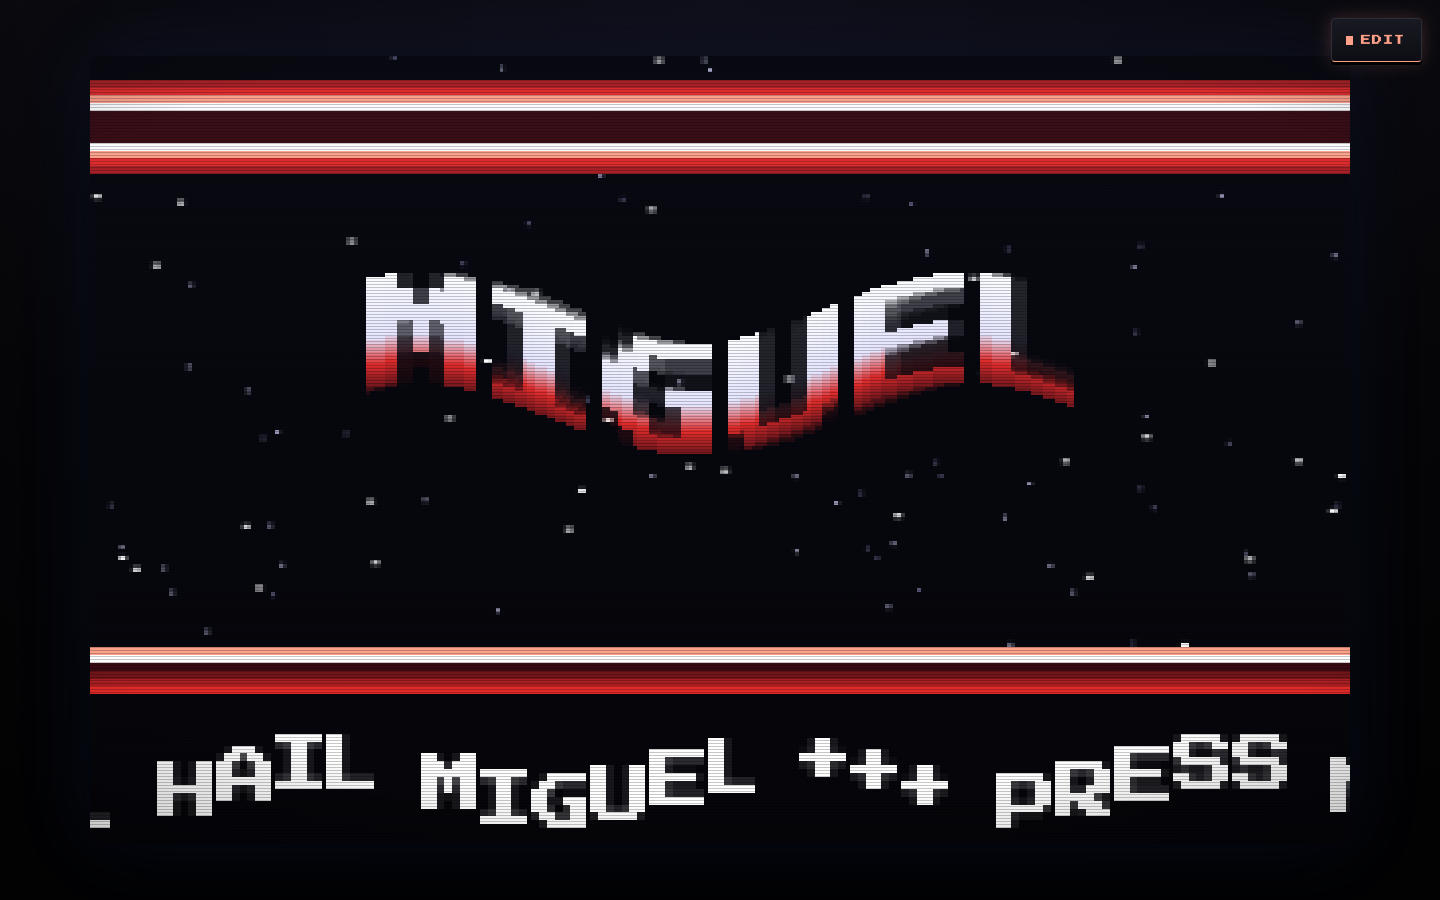
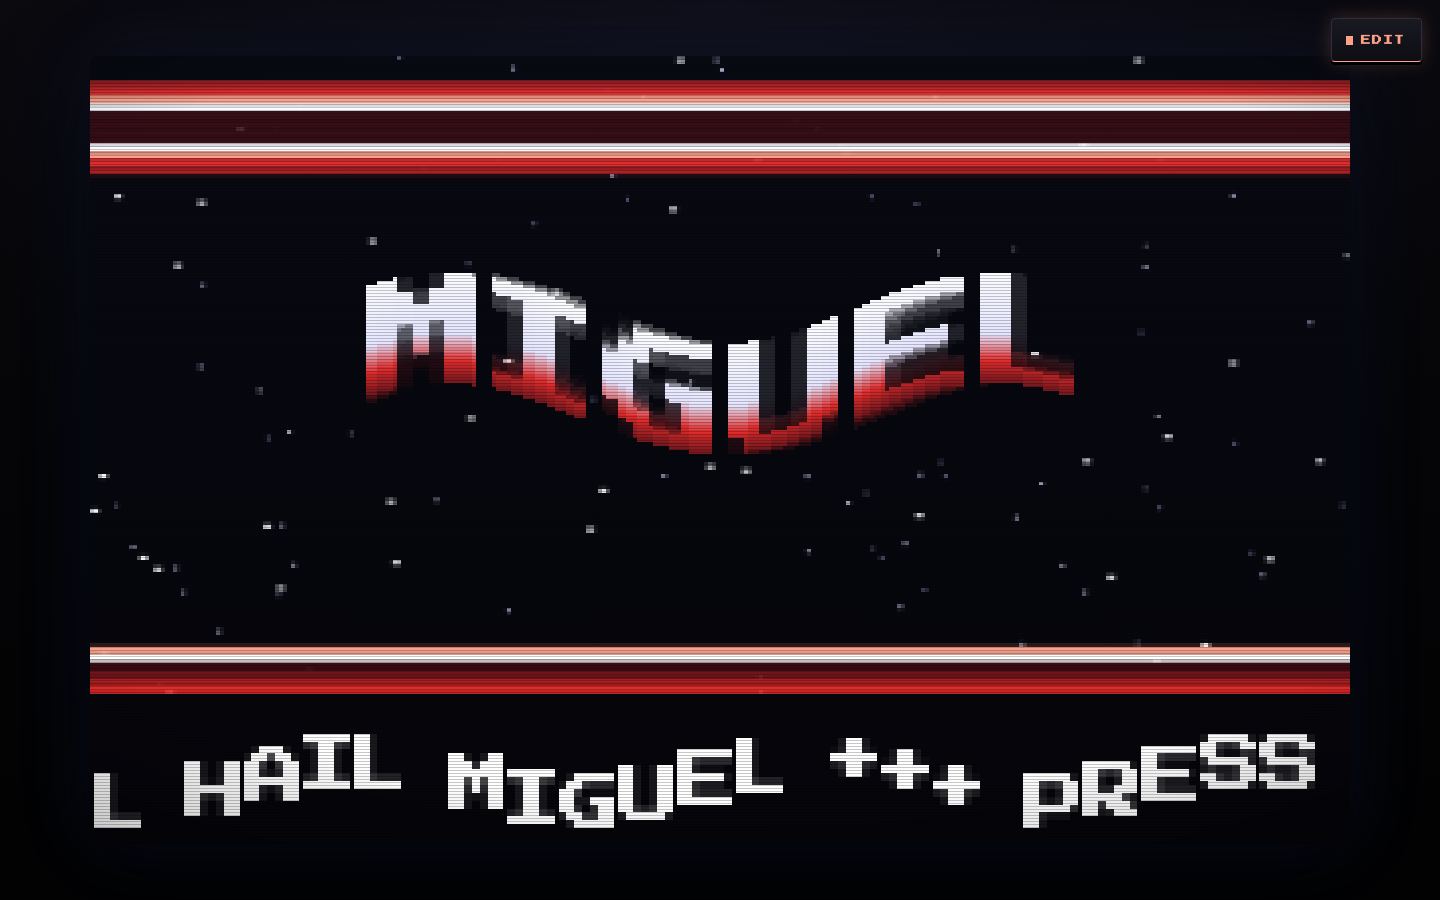
r2v13: the glass is the field — caret on the parked line, grab the crawl
Direct manipulation round: the reviewer's last 7 said the hand is on a
form under the picture. Now the picture takes the hand:

- the scrolltext field's caret blinks in the trough at its own index —
  a press on the parked line seats the caret on the glyph you touched
- the pinned crawl takes a drag: horizontal walks the sentence by hand
  (scrollT can run negative — the crawl is a ring, so % normalizes),
  vertical bends the wave amplitude while the grab is held
- the scrolltext field is a two-row textarea — a long sentence wraps and
  the head stays on screen on a phone instead of sliding out
- the busy MAKE key keeps its name — export progress rides as a meter
  strip inside the key; the status phrase stays in the prog line
- the word fields cascade in on open instead of landing as one slab
- the tune stops kissing 0 dBFS — tanh*0.82 leaves a real ceiling
- blur returns the field's scroll to the head smoothly, not a snap

Generated with [Devin](https://devin.ai)

diff --git a/src/lib/demo.ts b/src/lib/demo.ts
@@ -246,7 +246,9 @@ export class Demo {
     const c = this.ctx;
     const speed = 55 * this.scrollSpeed;
     const [amp0, sf, tf] = this.wave;
-    const amp = amp0 * ampScale;
+    // a vertical grab on the pinned crawl bends the wave while it's held;
+    // the trough clamp still owns the excursion, bend or no bend
+    const amp = amp0 * ampScale * (this.pinY != null ? this.pinBend : 1);
     const gh = 8 * scale;
     // the wave never dips a glyph under the glass AND never lifts one into
     // the copper — the trough is a reserved band, so the whole excursion
@@ -257,7 +259,9 @@ export class Demo {
     const line = text ?? this.scrolltext;
     const adv = this.font.px * scale * 1.0;
     const total = line.length * adv + W + 40;
-    const off = (t * speed) % total;
+    // normalize — a scrubbed pin can run scrollT negative, and % keeps the
+    // sign in JS; the crawl is a ring, so wrap instead of going blank
+    const off = ((t * speed) % total + total) % total;
     let x = W - off;
     for (let i = 0; i < line.length; i++) {
       const g = this.font.get(line[i]);
@@ -704,6 +708,73 @@ export class Demo {
   // section id pins that section; 'scroll' pins the classic scroller
   previewMode: '' | 'scroll' | 'scrollhold' | 'greetz' | SectionId = '';
 
+  // the field's caret index, echoed on the glass while the scroll field is
+  // parked — set by the input's selection events; -1 hides it
+  pinCaret = -1;
+
+  // the parked line's layout — one fitted line if it holds, else rows
+  // wrapped at the gaps. each row carries its char span back into the
+  // field value so a press or the caret can land on a glyph. shared by
+  // the renderer and the pointer — the glass can't lie about where a
+  // character sits
+  private parkedRows(): { rows: { t: string; s: number; e: number; y: number }[]; scale: number } {
+    const line = this.scrolltext.trim();
+    const maxW = W - 16;
+    let s = 2;
+    while (s > 1 && this.drawnW(line, s) > maxW) s -= 0.25;
+    if (this.drawnW(line, s) <= maxW) return { rows: [{ t: line, s: 0, e: line.length, y: H - 30 }], scale: s };
+    const spans: [number, string][] = [];
+    let pos = 0;
+    for (const wd of line.split(' ')) { spans.push([pos, wd]); pos += wd.length + 1; }
+    const rows: { t: string; s: number; e: number }[] = [];
+    let cur = '', cs = 0;
+    for (const [wp, wd] of spans) {
+      const cand = cur ? cur + ' ' + wd : wd;
+      if (this.drawnW(cand, 1) <= maxW) { cur = cand; continue; }
+      if (cur) rows.push({ t: cur, s: cs, e: wp });
+      cur = wd; cs = wp;
+      // a single word wider than the tube hard-wraps mid-word
+      while (cur.length > 1 && this.drawnW(cur, 1) > maxW) {
+        let k = cur.length - 1;
+        while (k > 1 && this.drawnW(cur.slice(0, k), 1) > maxW) k--;
+        rows.push({ t: cur.slice(0, k), s: cs, e: cs + k });
+        cur = cur.slice(k); cs += k;
+      }
+    }
+    if (cur) rows.push({ t: cur, s: cs, e: cs + cur.length });
+    const last = rows.length - 1;
+    return { rows: rows.map((r, i) => ({ ...r, y: 186 - (last - i) * 11 })), scale: 1 };
+  }
+
+  // a press on the parked line is a press on the field — answers the
+  // caret index under the point, so the app can seat it in the input
+  caretAt(px: number, py: number): number {
+    const { rows, scale } = this.parkedRows();
+    if (!rows.length) return 0;
+    let row = rows[0];
+    for (const r of rows) if (Math.abs(py - (r.y + 4 * scale)) < Math.abs(py - (row.y + 4 * scale))) row = r;
+    const x0 = (W - this.drawnW(row.t, scale)) / 2;
+    let acc = x0, i = 0;
+    while (i < row.t.length) {
+      const w = ((this.font.get(row.t[i])?.w ?? this.font.px * 0.5) + 1) * scale;
+      if (px < acc + w / 2) break;
+      acc += w; i++;
+    }
+    return row.s + i;
+  }
+
+  // a drag on the pinned crawl walks the sentence under the finger —
+  // positive px drags the text right, against its natural march; the
+  // vertical axis bends the wave's amplitude while the grab is held
+  pinBend = 1;
+  scrub(px: number) {
+    if (this.scrollSpeed <= 0) return;
+    this.pinT0 += px / (0.45 * 55 * this.scrollSpeed);
+  }
+  bend(dy: number) {
+    this.pinBend = Math.min(2.4, Math.max(0.15, this.pinBend - dy / 26));
+  }
+
   // returns true when a pin owns the frame — shared by the live loop and
   // the reduced-motion still so the pin works in both
   private renderPinned(t: number, greetz: string[], still = false): boolean {
@@ -715,45 +786,28 @@ export class Demo {
     // a focused scroll field parks the whole phrase fitted in the band —
     // the line answers the keys as you type; the crawl resumes on blur
     if (m === 'scrollhold' || (m === 'scroll' && still)) {
-      // the frozen pin parks the phrase in the band — a fragment frozen
-      // mid-crawl is useless to the person editing it. one line at a
-      // comfortable scale first; past that the sentence wraps at its gaps
-      // into rows stacked up from the trough — a credits block, not a
-      // hairline. every glyph the field holds stays on the glass
       this.renderClassic(2, true, false);
-      const line = this.scrolltext.trim();
-      const maxW = W - 16;
-      let s = 2;
-      while (s > 1 && this.drawnW(line, s) > maxW) s -= 0.25;
-      if (this.drawnW(line, s) <= maxW) this.tinyText(line, H - 30, 0, s);
-      else {
-        const rows: string[] = [];
-        let cur = '';
-        for (const wd of line.split(' ')) {
-          const cand = cur ? cur + ' ' + wd : wd;
-          if (this.drawnW(cand, 1) <= maxW) { cur = cand; continue; }
-          if (cur) rows.push(cur);
-          cur = wd;
-          // a single word wider than the tube hard-wraps mid-word
-          while (cur.length > 1 && this.drawnW(cur, 1) > maxW) {
-            let k = cur.length - 1;
-            while (k > 1 && this.drawnW(cur.slice(0, k), 1) > maxW) k--;
-            rows.push(cur.slice(0, k));
-            cur = cur.slice(k);
-          }
-        }
-        if (cur) rows.push(cur);
-        const last = rows.length - 1;
-        // the block sits inside the text band; a stack taller than the
-        // band grows its own plate upward over the copper rather than
-        // climbing through the bar
-        const firstTop = 186 - last * 11;
-        if (firstTop - 4 < 162) {
+      const { rows, scale } = this.parkedRows();
+      // a stack taller than the trough grows its own plate upward over the
+      // copper rather than letting a row climb through the bar
+      if (rows.length > 1 && rows[0].y - 4 < 162) {
+        const c = this.ctx;
+        c.fillStyle = '#05050a';
+        c.fillRect(0, rows[0].y - 4, W, H - (rows[0].y - 4));
+      }
+      for (const r of rows) this.tinyText(r.t, r.y, 0, scale);
+      // the glass IS the field while it's parked — the caret blinks at the
+      // index the input carries, so the line under your eyes and the line
+      // under your hands are the same object
+      if (this.pinCaret >= 0 && Math.floor(performance.now() / 480) % 2 === 0) {
+        const ci = Math.min(this.pinCaret, this.scrolltext.trim().length);
+        const row = rows.find((r) => ci <= r.e) ?? rows[rows.length - 1];
+        if (row) {
+          const rx = (W - this.drawnW(row.t, scale)) / 2 + this.drawnW(row.t.slice(0, Math.max(0, ci - row.s)), scale);
           const c = this.ctx;
-          c.fillStyle = '#05050a';
-          c.fillRect(0, firstTop - 4, W, H - (firstTop - 4));
+          c.fillStyle = this.ramp[6];
+          c.fillRect(Math.round(rx), row.y - 2, 2, 8 * scale + 4);
         }
-        rows.forEach((r, i) => this.tinyText(r, 186 - (last - i) * 11, 0, 1));
       }
       if (m === 'scrollhold') this.pinHold = true;
       return true;

diff --git a/src/Deck.tsx b/src/Deck.tsx
@@ -39,6 +39,7 @@ const HapticCtx = createContext<(() => void) | null>(null);
 function Chip(props: {
   on: boolean; label: string; title?: string; hot: string;
   onPress: () => void; disabled?: boolean; swatch?: string[]; toggle?: boolean;
+  frac?: number;
 }) {
   const haptic = useContext(HapticCtx);
   return (
@@ -59,6 +60,11 @@ function Chip(props: {
       {/* key on the word itself, minus live counters — a relabel is a swap
           the eye can catch, but a ticking percent must not restart it */}
       <span className="klabel" key={props.label.replace(/\s*\d+%$/, '')}>{props.label}</span>
+      {/* a busy key keeps its name — the work shows as a meter inside the
+          key, not a relabel */}
+      {props.frac != null && (
+        <span className="keymeter" aria-hidden><i style={{ transform: `scaleX(${props.frac})` }} /></span>
+      )}
     </button>
   );
 }
@@ -101,6 +107,7 @@ export default function Deck(props: {
   onReset: () => void;
   onClose: () => void;
   onTap?: () => void;
+  onCaret?: (i: number) => void;
   linkNote: string;
 }) {
   const { spec, resolved, hot, exp } = props;
@@ -183,8 +190,6 @@ export default function Deck(props: {
         ? sameSecs(spec.sections as SectionId[], v)
         : String(spec[k as keyof Spec]) === String(v));
   const bar = (n: number) => '▓'.repeat(Math.round(n * 8)) + '░'.repeat(8 - Math.round(n * 8));
-  const exportLabel = (kind: 'gif' | 'video', base: string) =>
-    exp.busy && exp.kind === kind ? `${base} ${Math.round(exp.frac * 100)}%` : base;
 
   return (
     <HapticCtx.Provider value={haptic}>
@@ -270,16 +275,19 @@ export default function Deck(props: {
               />
             </Field>
             <Field cap="SCROLLTEXT · EMPTY = AUTO" wide>
-              {/* blurred, the field shows the head of the sentence — the
-                  caret only owns the tail while you're actually typing;
-                  while focused, the glass echoes the whole fitted line */}
-              <input
-                className="dinput" aria-label="scrolltext" maxLength={200}
-                placeholder="EMPTY = GENERATED" value={spec.text}
-                onFocus={() => setScrollFocus(true)}
-                onBlur={(e) => { setScrollFocus(false); e.currentTarget.scrollLeft = 0; }}
-                onChange={(e) => props.onPatch({ text: cleanText(e.target.value) })}
-                onKeyDown={inputKeys}
+              {/* the field wraps to two rows so the head of the sentence
+                  stays in reach on a phone — a clipped single line hides
+                  the half you're not typing on. while focused the glass
+                  echoes it all anyway; the caret blinks in the trough at
+                  the same index the field carries */}
+              <textarea
+                className="dinput dtext" aria-label="scrolltext" maxLength={200}
+                rows={2} placeholder="EMPTY = GENERATED" value={spec.text}
+                onFocus={(e) => { setScrollFocus(true); props.onCaret?.(e.currentTarget.selectionStart); }}
+                onBlur={(e) => { setScrollFocus(false); props.onCaret?.(-1); e.currentTarget.scrollTo({ top: 0, behavior: 'smooth' }); }}
+                onChange={(e) => { props.onPatch({ text: cleanText(e.target.value) }); props.onCaret?.(e.currentTarget.selectionStart); }}
+                onSelect={(e) => props.onCaret?.(e.currentTarget.selectionStart)}
+                onKeyDown={(e) => { if (e.key === 'Enter') e.preventDefault(); inputKeys(e); }}
               />
             </Field>
             <Field cap="GREETZ · COMMA LIST" wide>
@@ -365,7 +373,7 @@ export default function Deck(props: {
         <div className="dkeys">
           {exp.busy ? (
             <>
-              <Chip on={false} hot={hot} disabled onPress={() => {}} label={exportLabel(exp.kind ?? 'gif', exp.kind === 'video' ? '▶ FILM' : '◉ GIF')} />
+              <Chip on={false} hot={hot} disabled onPress={() => {}} frac={exp.frac} label={exp.kind === 'video' ? '▶ FILM' : '◉ GIF'} />
               <span className="prog" aria-live="polite">{bar(exp.frac)} <span className="klabel" key={exp.label}>{exp.label}</span></span>
               <Chip on={false} hot={hot} label="CANCEL" onPress={props.onCancelExport} />
             </>
@@ -382,8 +390,8 @@ export default function Deck(props: {
             </>
           ) : (
             <>
-              <Chip on={false} hot={hot} label={exportLabel('gif', '◉ GIF')} title="600px square loop" onPress={() => props.onExport('gif')} />
-              <Chip on={false} hot={hot} label={exportLabel('video', '▶ FILM')} title="720p video with the tune" onPress={() => props.onExport('video')} />
+              <Chip on={false} hot={hot} label="◉ GIF" title="600px square loop" onPress={() => props.onExport('gif')} />
+              <Chip on={false} hot={hot} label="▶ FILM" title="720p video with the tune" onPress={() => props.onExport('video')} />
               <Chip on={props.linkState !== 'idle'} hot={hot}
                 label={props.linkState === 'copied' ? '⧉ COPIED' : props.linkState === 'manual' ? '⧉ COPY THIS' : '⧉ LINK'}
                 onPress={props.onShareLink} />

diff --git a/src/App.tsx b/src/App.tsx
@@ -532,7 +532,56 @@ export default function App() {
     <div className={'app' + (deckOpen ? ' editing' : '')}>
       <div className="room" />
       <div className="tube">
-        <canvas ref={canvasRef} className="demoscreen" aria-label={`cracktro greeting ${name ?? ''}${muted ? ', muted' : ''}`} />
+        <canvas ref={canvasRef} className="demoscreen" aria-label={`cracktro greeting ${name ?? ''}${muted ? ', muted' : ''}`}
+          onPointerDown={(e) => {
+            // with the deck open the glass is a surface you can grab —
+            // a press on the parked line seats the field's caret there;
+            // a drag on the pinned crawl walks the sentence by hand
+            const d = demoRef.current;
+            const m = previewRef.current;
+            if (!d || (m !== 'scrollhold' && m !== 'scroll')) return;
+            // keep the field's focus — a canvas press must not blur it
+            e.preventDefault();
+            const cv = e.currentTarget;
+            cv.setPointerCapture(e.pointerId);
+            const toCv = (x: number, y: number): [number, number] => {
+              const r = cv.getBoundingClientRect();
+              return [(x - r.left) * 320 / r.width, (y - r.top) * 200 / r.height];
+            };
+            if (m === 'scrollhold') {
+              const el = document.querySelector<HTMLTextAreaElement>('textarea[aria-label="scrolltext"]');
+              if (!el) return;
+              const seat = (x: number, y: number) => {
+                const [px, py] = toCv(x, y);
+                const i = Math.min(d.caretAt(px, py), el.value.length);
+                el.setSelectionRange(i, i);
+                d.pinCaret = i;
+              };
+              seat(e.clientX, e.clientY);
+              el.focus();
+              const move = (ev: PointerEvent) => seat(ev.clientX, ev.clientY);
+              const up = () => { cv.removeEventListener('pointermove', move); cv.removeEventListener('pointerup', up); };
+              cv.addEventListener('pointermove', move);
+              cv.addEventListener('pointerup', up);
+            } else {
+              // scrubs only where the crawl lives — a grab elsewhere is a
+              // plain touch on the tube
+              const [, py] = toCv(e.clientX, e.clientY);
+              if (py < 158) return;
+              let lastX = e.clientX, lastY = e.clientY;
+              const move = (ev: PointerEvent) => {
+                const k = 320 / cv.getBoundingClientRect().width;
+                d.scrub((ev.clientX - lastX) * k);
+                // vertical drag bends the wave while the grab is held —
+                // up is wilder, down is flatter, release snaps back to 1
+                d.bend((ev.clientY - lastY) * (200 / cv.getBoundingClientRect().height));
+                lastX = ev.clientX; lastY = ev.clientY;
+              };
+              const up = () => { d.pinBend = 1; cv.removeEventListener('pointermove', move); cv.removeEventListener('pointerup', up); };
+              cv.addEventListener('pointermove', move);
+              cv.addEventListener('pointerup', up);
+            }
+          }} />
         <div className="crt" aria-hidden>
           <div className="crt-lines" />
           <div className="crt-glow" />
@@ -602,6 +651,12 @@ export default function App() {
           }}
           onClose={closeDeck}
           onTap={() => thud(8)}
+          onCaret={(i) => {
+            const d = demoRef.current;
+            if (!d) return;
+            d.pinCaret = i;
+            if (REDUCED && phaseRef.current === 'running') d.renderReduced(greetzRef.current);
+          }}
           linkNote={linkNote}
         />
       )}

diff --git a/src/app.css b/src/app.css
@@ -21,6 +21,9 @@ body { background: #060608; overflow: hidden; font-family: 'PS2P', monospace; }
   box-shadow: 0 0 80px rgba(80, 120, 255, 0.10), 0 30px 90px rgba(0,0,0,0.8);
 }
 .demoscreen { width: 100%; height: 100%; display: block; image-rendering: pixelated; background: #05050a; }
+/* while the deck is open the glass takes grabs — a press seats the field
+   caret, a drag scrubs the crawl; the page must not steal the gesture */
+.app.editing .demoscreen { touch-action: none; }
 
 .sr-only {
   position: absolute; width: 1px; height: 1px; overflow: hidden;
@@ -183,6 +186,14 @@ body { background: #060608; overflow: hidden; font-family: 'PS2P', monospace; }
 }
 @keyframes panelin { from { transform: translateX(14px); opacity: 0; } }
 @keyframes thumbin { from { transform: translateX(-10px); opacity: 0; } }
+/* the word fields cascade in on open rather than landing as one slab */
+.dfields .field { animation: panelin 0.16s steps(4) backwards; }
+.dfields .field:nth-child(2) { animation-delay: 40ms; }
+.dfields .field:nth-child(3) { animation-delay: 80ms; }
+.dfields .field:nth-child(4) { animation-delay: 120ms; }
+/* the scrolltext field wraps — the head of a long sentence stays on
+   screen on a phone instead of sliding out of the single line */
+.dtext { resize: none; line-height: 1.4; overflow-y: auto; }
 
 .deckfoot {
   display: flex; align-items: center; gap: 12px;
@@ -234,8 +245,13 @@ body { background: #060608; overflow: hidden; font-family: 'PS2P', monospace; }
   cursor: pointer; touch-action: manipulation;
   -webkit-tap-highlight-color: transparent;
   display: inline-flex; align-items: center; gap: 7px;
+  position: relative; overflow: hidden;
   transition: transform 0.05s, box-shadow 0.05s, border-color 0.15s, color 0.15s, background 0.15s;
 }
+/* the busy key keeps its label — progress rides as a meter along the
+   key's lower edge, demoscene-style */
+.keymeter { position: absolute; left: 5px; right: 5px; bottom: 4px; height: 3px; background: rgba(0,0,0,0.65); }
+.keymeter i { display: block; height: 100%; background: var(--hot, #f80); transform-origin: left; }
 .key:hover { border-color: var(--hot, #f80); color: #ececf4; }
 .key:active { transform: translateY(3px); box-shadow: 0 0 0 #000, inset 0 2px 6px rgba(0,0,0,0.6); }
 .key:focus-visible, .fab:focus-visible, .dinput:focus-visible {

diff --git a/src/lib/synth.ts b/src/lib/synth.ts
@@ -69,8 +69,9 @@ export function renderTune(tune: Tune, sampleRate = 44100): Float32Array {
           }
           mix += v * a.vol * CH_GAIN[c];
         }
-        // soft clip
-        out[rowStart + s] += Math.tanh(mix * 1.4);
+        // soft clip — tanh is the crunch, but it asymptotes at 0 dBFS,
+        // which reads as clipping on a hot mix; keep the ceiling clean
+        out[rowStart + s] += Math.tanh(mix * 1.4) * 0.82;
       }
     }
   }
